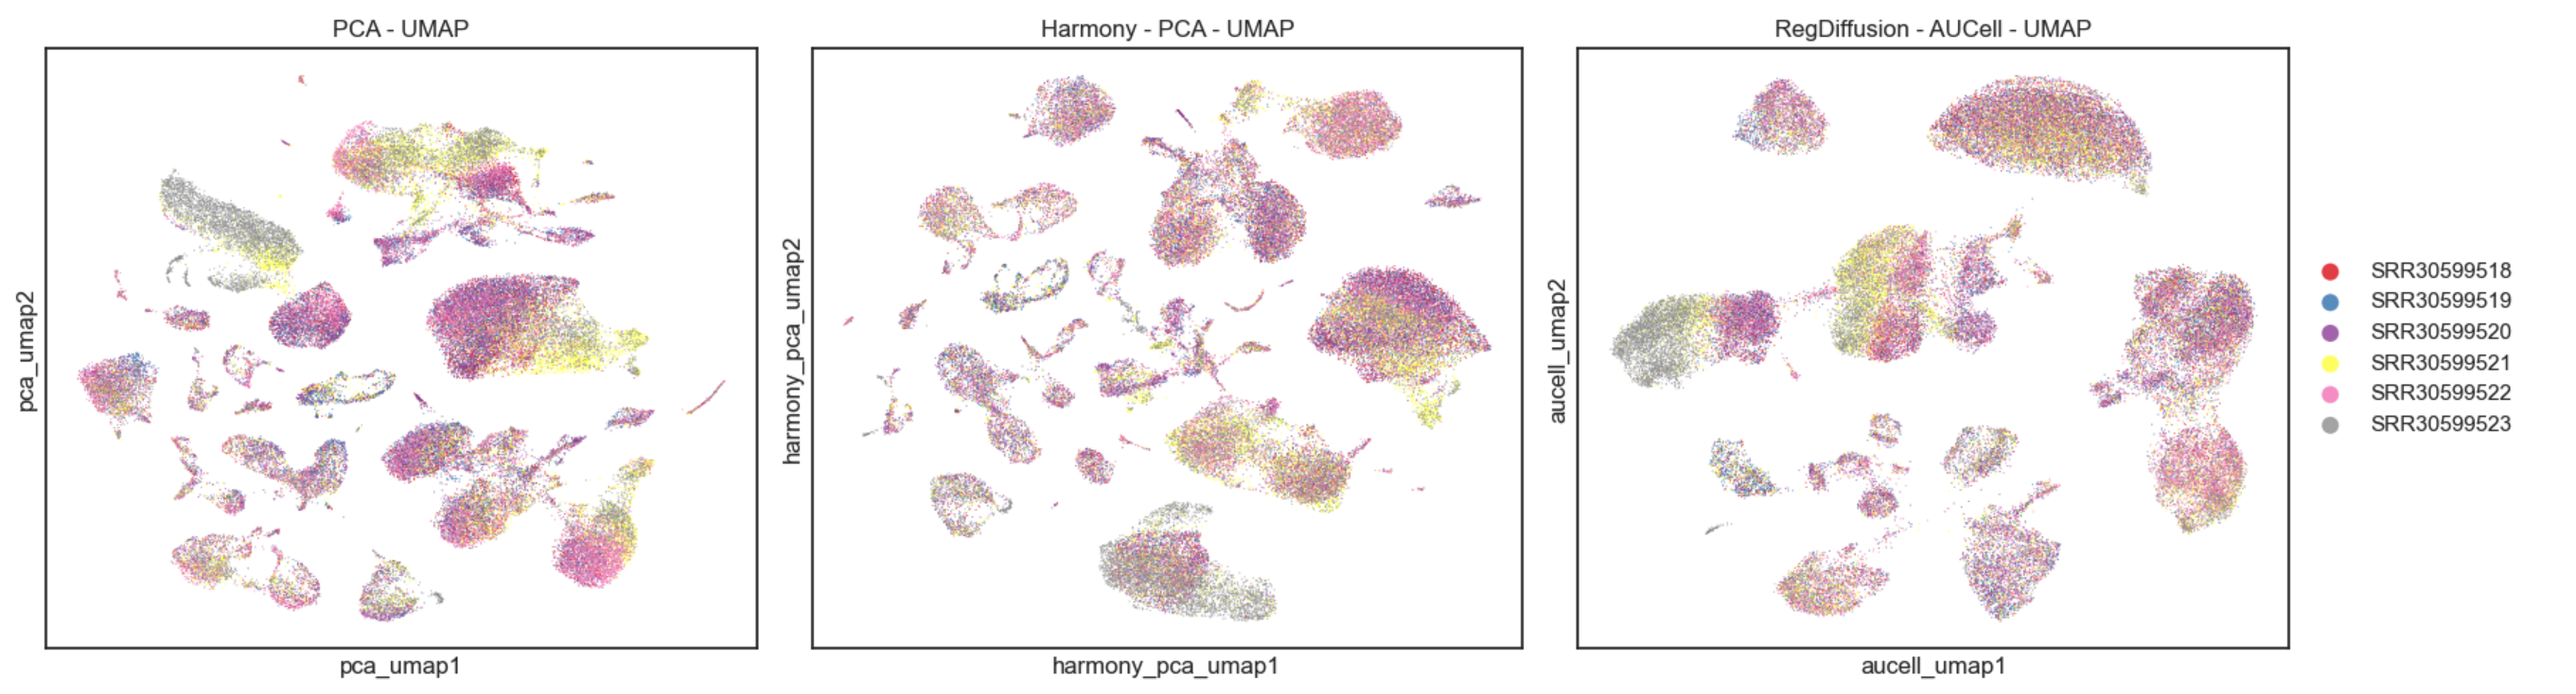
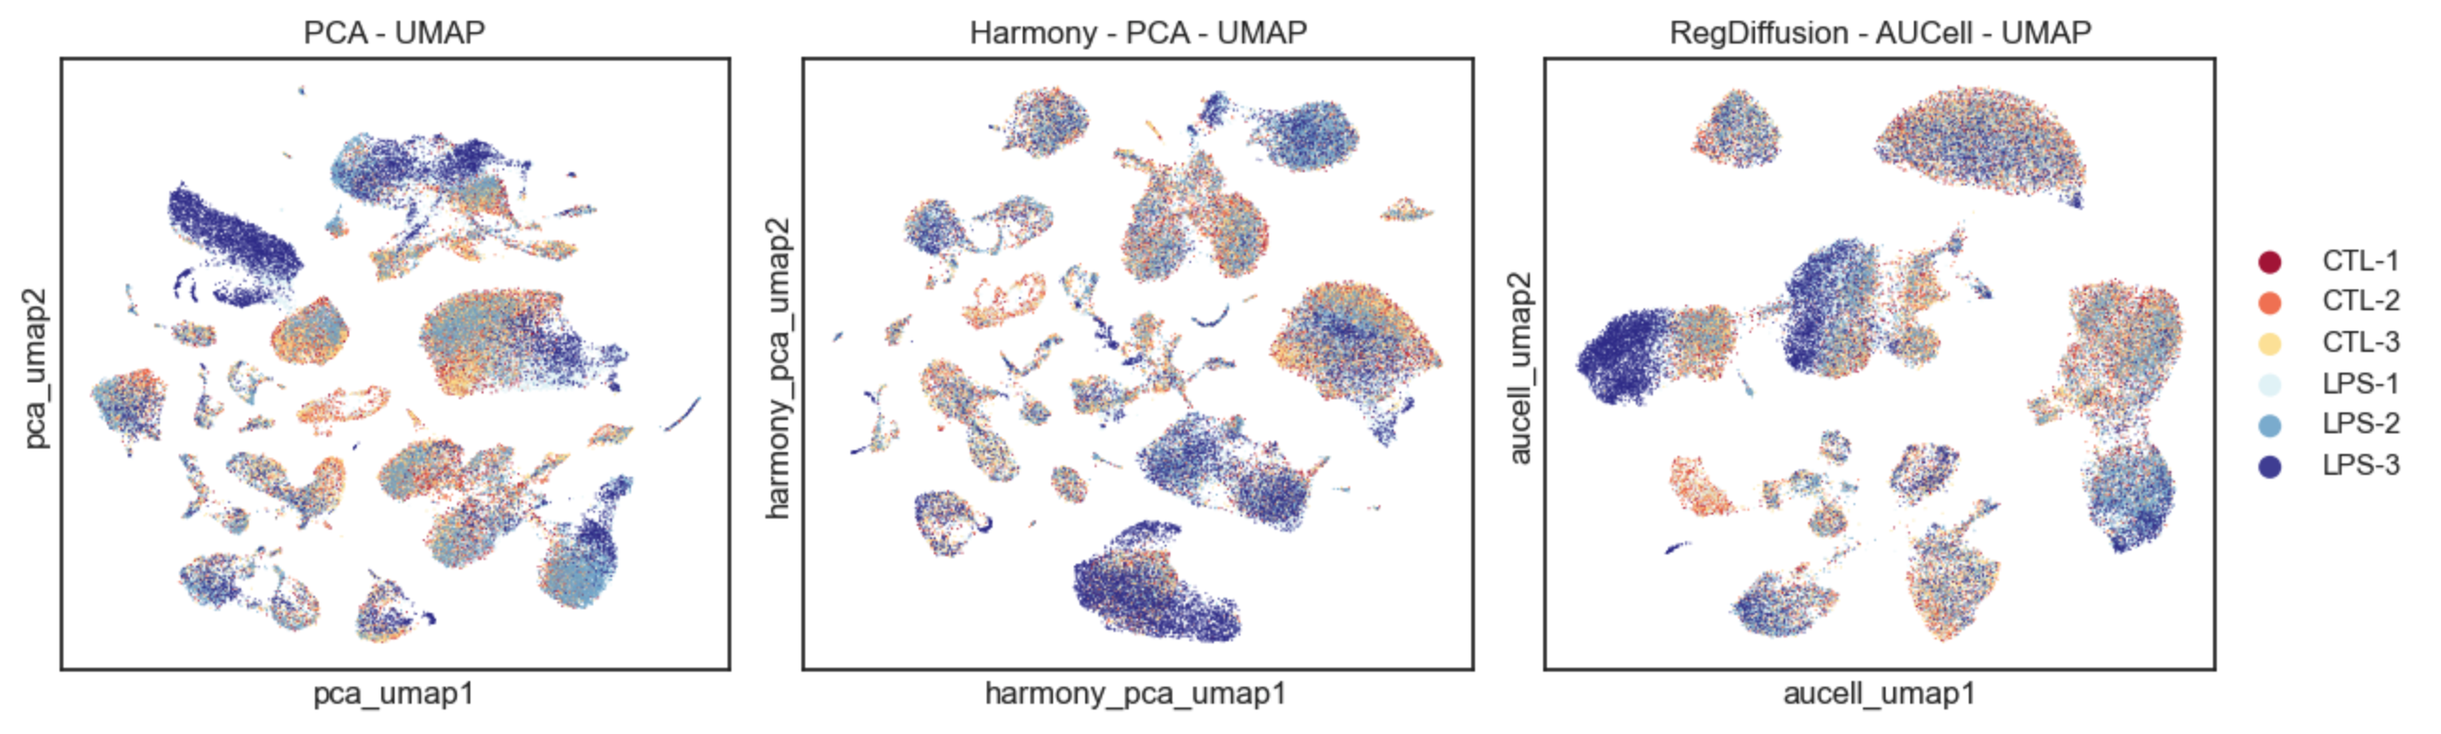
fix interpretation on the batch results

Changed region(s): [[0.0, 0.03, 0.9922, 0.9891]]

diff --git a/docs/downstream_with_pyscenic.md b/docs/downstream_with_pyscenic.md
@@ -13,7 +13,7 @@ SCENIC (Aibar 2017) is a widely used pipeline for inferring and analyzing GRNs i
 - **Cell Scoring**: Quantifies TF activity in individual cells via AUCell, a score measuring the activity of regulons.
 - **Clustering and Visualization**: The AUCell scores could be used as features to do dimension reduction and cell type identification. 
 
-One limitation with the default SCENIC pipeline is that the matrix calculation step with GRNBoost2 and GENIE3 is computationally intensive. Today, As the sizes of single-cell datasets continue to grow, running the SCENIC pipeline with default settings is becoming increasingly challenging. RegDiffusion offers a fast alternative with a deep-learning based denoising diffusion structural equation model (SEM), which can seamlessly replace the output from GRNBoost2/GENIE3. 
+One limitation with the default SCENIC pipeline is that the matrix calculation step with GRNBoost2 and GENIE3 is computationally intensive. Today, As the sizes of single-cell datasets continue to grow, running the SCENIC pipeline with default settings is becoming increasingly challenging. RegDiffusion offers a fast alternative with a deep-learning based denoising diffusion structural equation model (SEM). It can seamlessly replace the output from GRNBoost2/GENIE3 and reduce the computing time from hours to minutes or even seconds. 
 
 ## Prerequisites and Data Preparation
 
@@ -26,7 +26,7 @@ One limitation with the default SCENIC pipeline is that the matrix calculation s
 >>> conda deactivate
 ```
 
-You also need to install pyscenic to your working environment. We recommand the github version as it fixed many bugs. 
+You also need to install pyscenic to your working environment. We recommand the github version. 
 
 ```
 >>> pip install git+https://github.com/aertslab/pySCENIC
@@ -105,7 +105,7 @@ The input of `regdiffusion` is log transformed raw counts data. The `.X` in the 
 >>> x = np.log(x+1.0)
 ```
 
-Now run `RegDiffusionTrainer`. 
+Now run `RegDiffusionTrainer`. On NVIDIA A30 (24G), it took 19s. On A2000 (6G), it took 51s. 
 
 ```python
 >>> rd_trainer = rd.RegDiffusionTrainer(x)
@@ -302,7 +302,7 @@ The RegDiffusion-AUCell-based UMAP plot provides a high degree of clarity, allow
 
 ![](https://raw.githubusercontent.com/TuftsBCB/RegDiffusion/master/resources/cellnames.png)
 
-If we color the UMAPs by sample IDs, we can see Harmony seems to suffer the least from batch effect. In RegDiffusion-AUCell UMAP, the batch effect in most cells are minimized. This consists with previous literature (Aibar, 2017; Malagola, 2024) and shows that AUCell scores capture high-level interaction features. However, we also noticed that there are still clear batch separations in Monocytes and Neutrophil and the reason is unknown. 
+To assess the impact of batch effects, we colored the UMAP plots using sample labels. As shown in the figure above, Harmony effectively reduced sample differences across many cell types. Similarly, in the RegDiffusion-AUCell UMAP, batch effects were also minimized, resulting in a near-uniform distribution of data points. This consists with previous literature (Aibar, 2017; Malagola, 2024) and shows that AUCell scores effectively capture high-level interaction features. Interestingly, as the batch effect was diminished, the biological effects were revealed more intuitively. For example, we can see clear separations in Neutrophils from samples in the LPS group and in the control group, which is consistent with previous studies demonstrating that emergency granulopoiesis leads to different clusters of neutrophils during sepsis. In contrast, these patterns appear to be lost when the data is processed with Harmony. 
 
 ## Expression levels of Bio-markers
 
